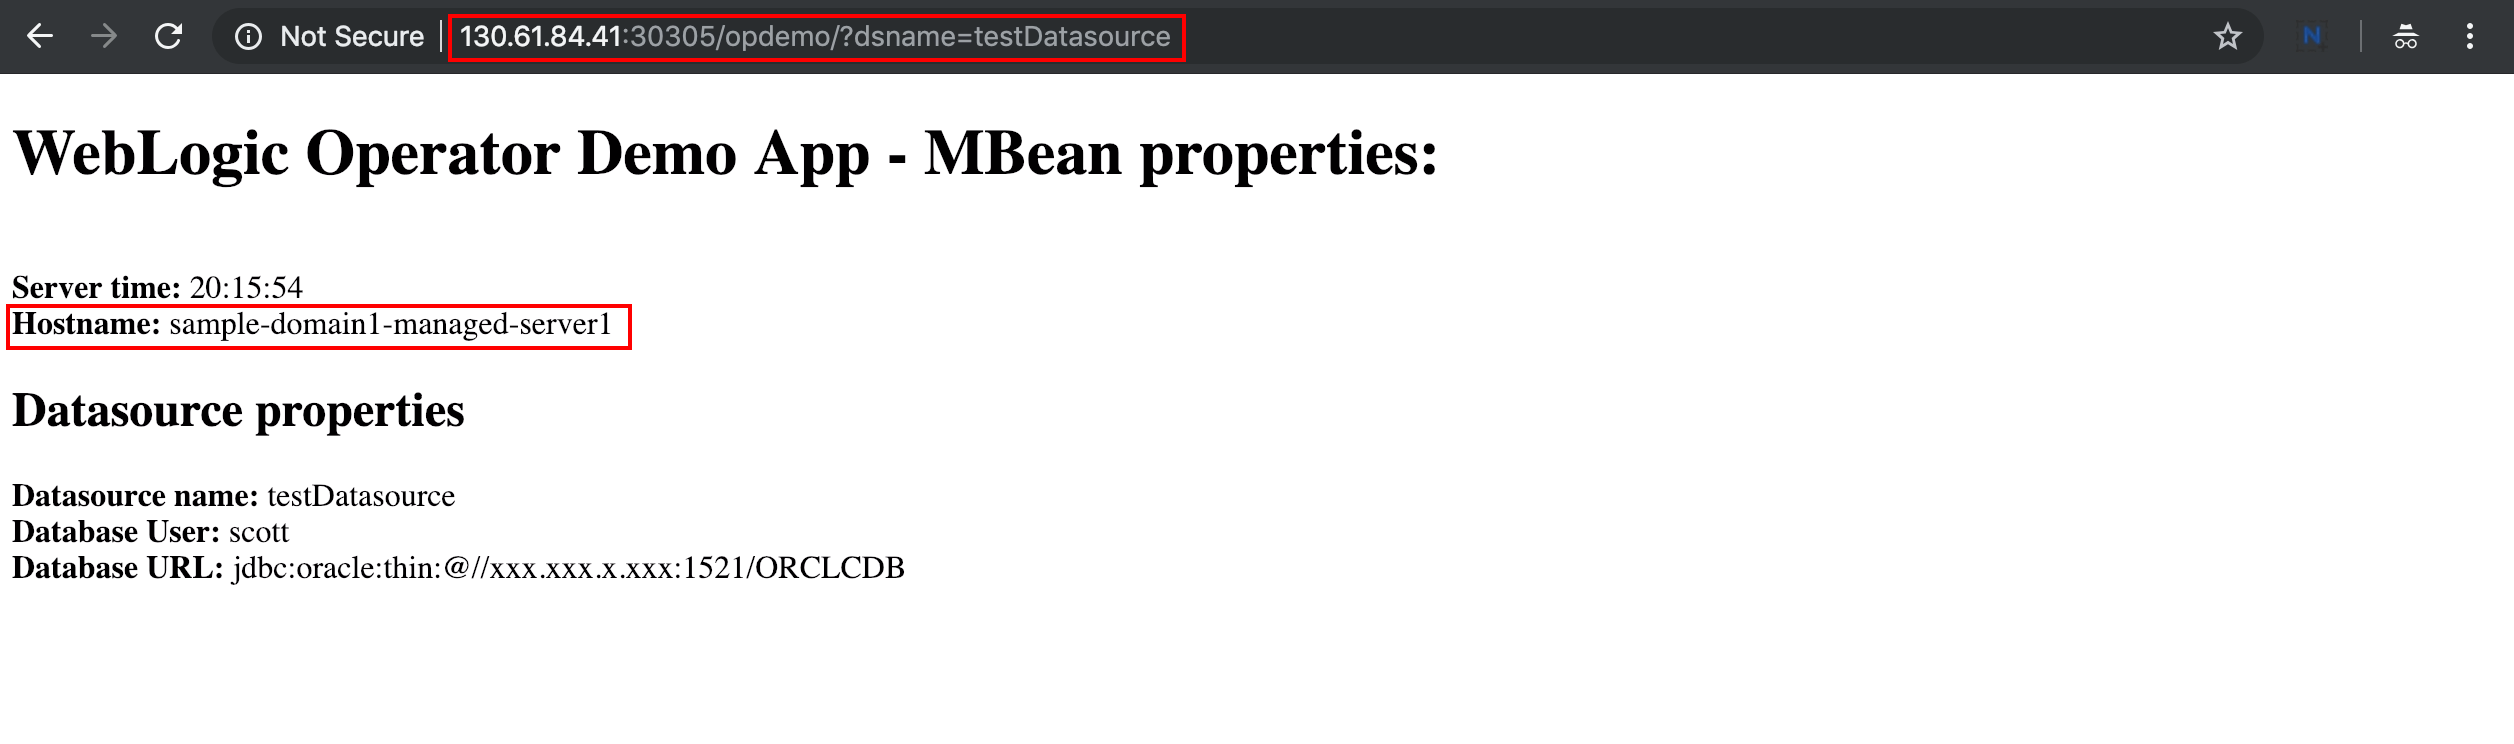
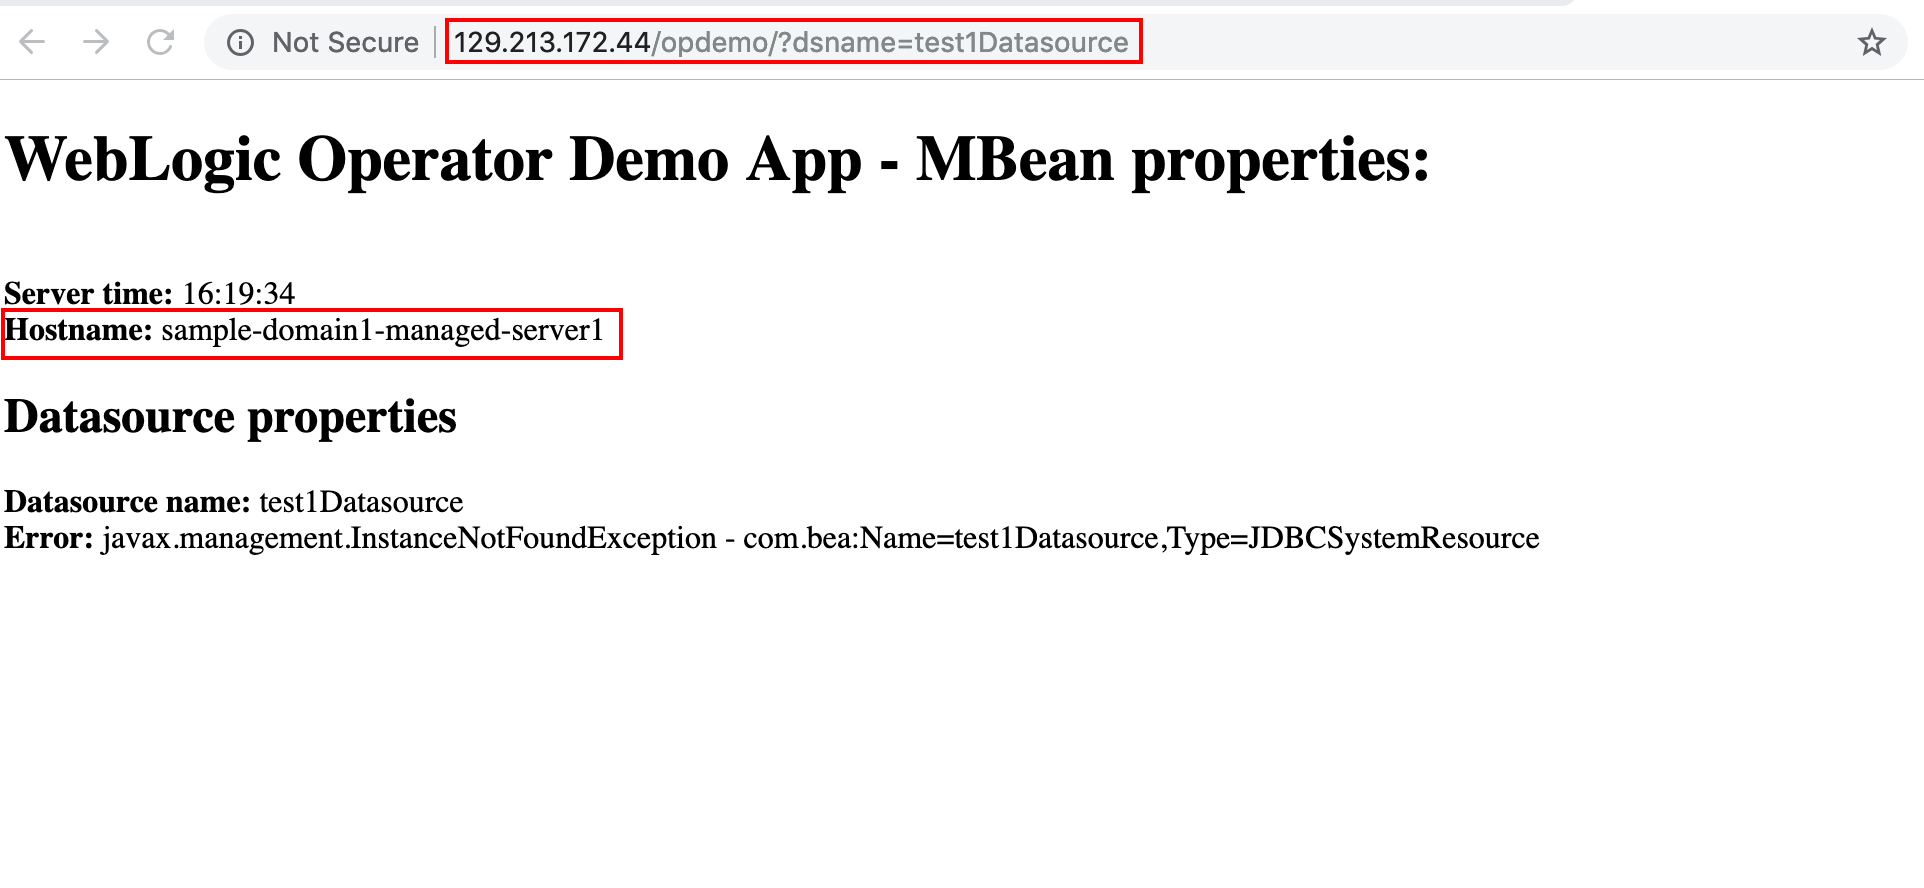
deploy weblogic update for LB

diff --git a/tutorials/deploy.weblogic.md b/tutorials/deploy.weblogic.md
@@ -21,7 +21,8 @@ kubectl label secret sample-domain1-weblogic-credentials \
   weblogic.domainUID=sample-domain1 \
   weblogic.domainName=sample-domain1
 ```
-Create OCI image Registry secret to allow Kubernetes to pull you custome WebLogic image. Replace the registry server region code, username and auth token respectively. (WARNING!!! - be careful about username - docker-username parameter should have a value of YOUR_TANACY_NAME/YOUR_OCIR_USERNAME - don't skip YOUR_TENANCY_NAME please)
+Create OCI image Registry secret to allow Kubernetes to pull you custome WebLogic image. Replace the registry server region code, username and auth token respectively.
+WARNING!!! - be careful about username - docker-username parameter should have a value of YOUR_TENACY_NAME/YOUR_OCIR_USERNAME - don't skip YOUR_TENANCY_NAME please.
 ```
 kubectl create secret docker-registry ocirsecret \
   -n sample-domain1-ns \
@@ -116,23 +117,9 @@ sample-domain1-managed-server2   0/1       Running   0          1m        10.244
 ```
 You have to see three running pods similar to the result above. If you don't see all the running pods please wait and check periodically. The whole domain deployment may take up to 2-3 minutes depending on the compute shapes.
 
-The WebLogic Administration server console is exposed to the external world using NodePort. Which means you can use any of the node's public IP address as host name. The NodePort definition can be found in the domain resource defintion (*domain.yaml*) which default is 30701 if you haven't modified.
+In order to access any application or admin console deployed on WebLogic you have to configure *Traefik* ingress. OCI Load balancer is already assigned during *Traefik* install in the previous step.
 
-Construct the Administration Console's url and open in a browser:
-
-`http://ANY_NODE_PUBLIC_IP_ADDRESS:30701/console`
-
-Enter admin user credentials (weblogic/welcome1) and click **Login**
-
-![](images/deploy.domain/weblogic.console.login.png)
-
-!Please note in this use case the use of Administration Console is just for demo/test purposes because domain configuration persisted in pod which means after the restart the original values (baked into the image) will be used again. To override certain configuration parameters - to ensure image portability - follow the override part of this tutorial.
-
-#### Test the demo Web Application ####
-
-In order to access any application deployed on WebLogic you have to configure Traefik ingress.
-
-As a simple solution the best is to configure path routing which will route the traffic external traffic through Traefik to domain cluster address.
+As a simple solution the best is to configure path routing which will route the external traffic through *Traefik* to domain cluster address.
 
 Execute the following ingress resource definition:
 ```
@@ -153,15 +140,38 @@ spec:
         backend:
           serviceName: sample-domain1-cluster-cluster-1
           servicePort: 8001
+      - path: /console
+        backend:
+          serviceName: sample-domain1-admin-server
+          servicePort: 7001          
 EOF          
 ```
 
-Please note the namespace, serviceName and servicePort definition. These are the properties of the domain resource deployed on Kubernetes.
+Please note the two backends and the namespace, serviceName, servicePort definitions. The first backend is the domain cluster service to reach the application at the root context path. The second is for the admin console which is a different service.
 
-Once the Ingress has been created construct the URL of the application based on the following pattern:
+Once the Ingress has been created construct the URL of the admin console based on the following pattern:
 
-`http://ANY_NODE_PUBLIC_IP_ADDRESS:30305/opdemo/?dsname=testDatasource`
+`http://EXTERNAL-IP/console`
+
+The EXTERNAL-IP was determined during Traefik install. If you forgot to note the execute the following command to get the public IP address:
+```
+$ kubectl describe svc traefik-operator --namespace traefik | grep Ingress | awk '{print $3}'
+129.213.172.44
+```
+Construct the Administration Console's url and open in a browser:
+
+Enter admin user credentials (weblogic/welcome1) and click **Login**
+
+![](images/deploy.domain/weblogic.console.login.png)
+
+!Please note in this use case the use of Administration Console is just for demo/test purposes because domain configuration persisted in pod which means after the restart the original values (baked into the image) will be used again. To override certain configuration parameters - to ensure image portability - follow the override part of this tutorial.
+
+#### Test the demo Web Application ####
+
+The URL pattern of the sample application is the following:
+
+`http://EXTERNAL-IP/opdemo/?dsname=testDatasource`
 
 ![](images/deploy.domain/webapp.png)
 
-Refresh the page and notice the hostname changes. It reflects the managed server's name which responds to the request. You should see the loadbalancing between the two managed server.
+Refresh the page and notice the hostname changes. It reflects the managed server's name which responds to the request. You should see the load balancing between the two managed servers.
